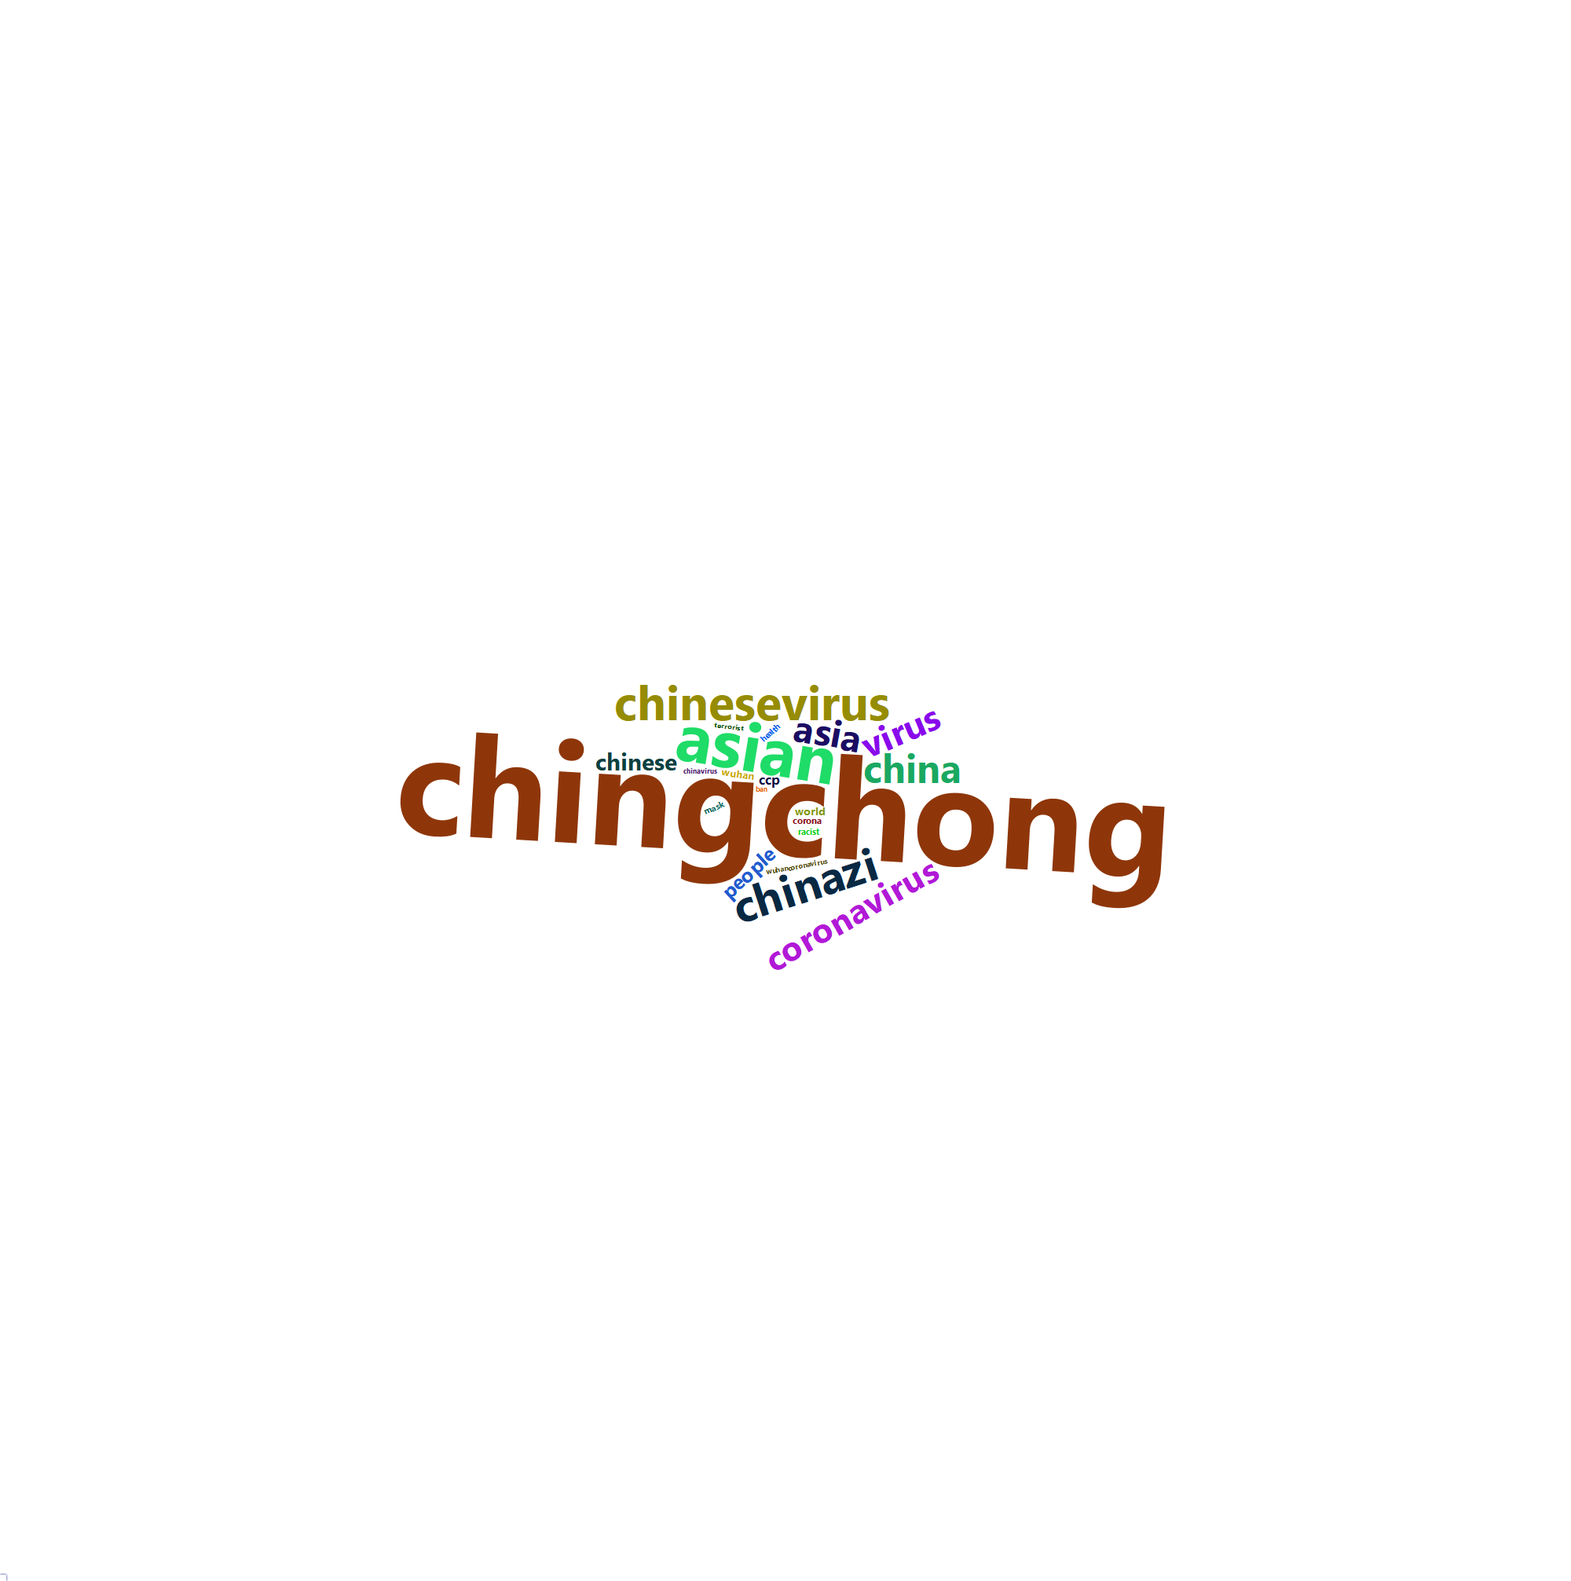
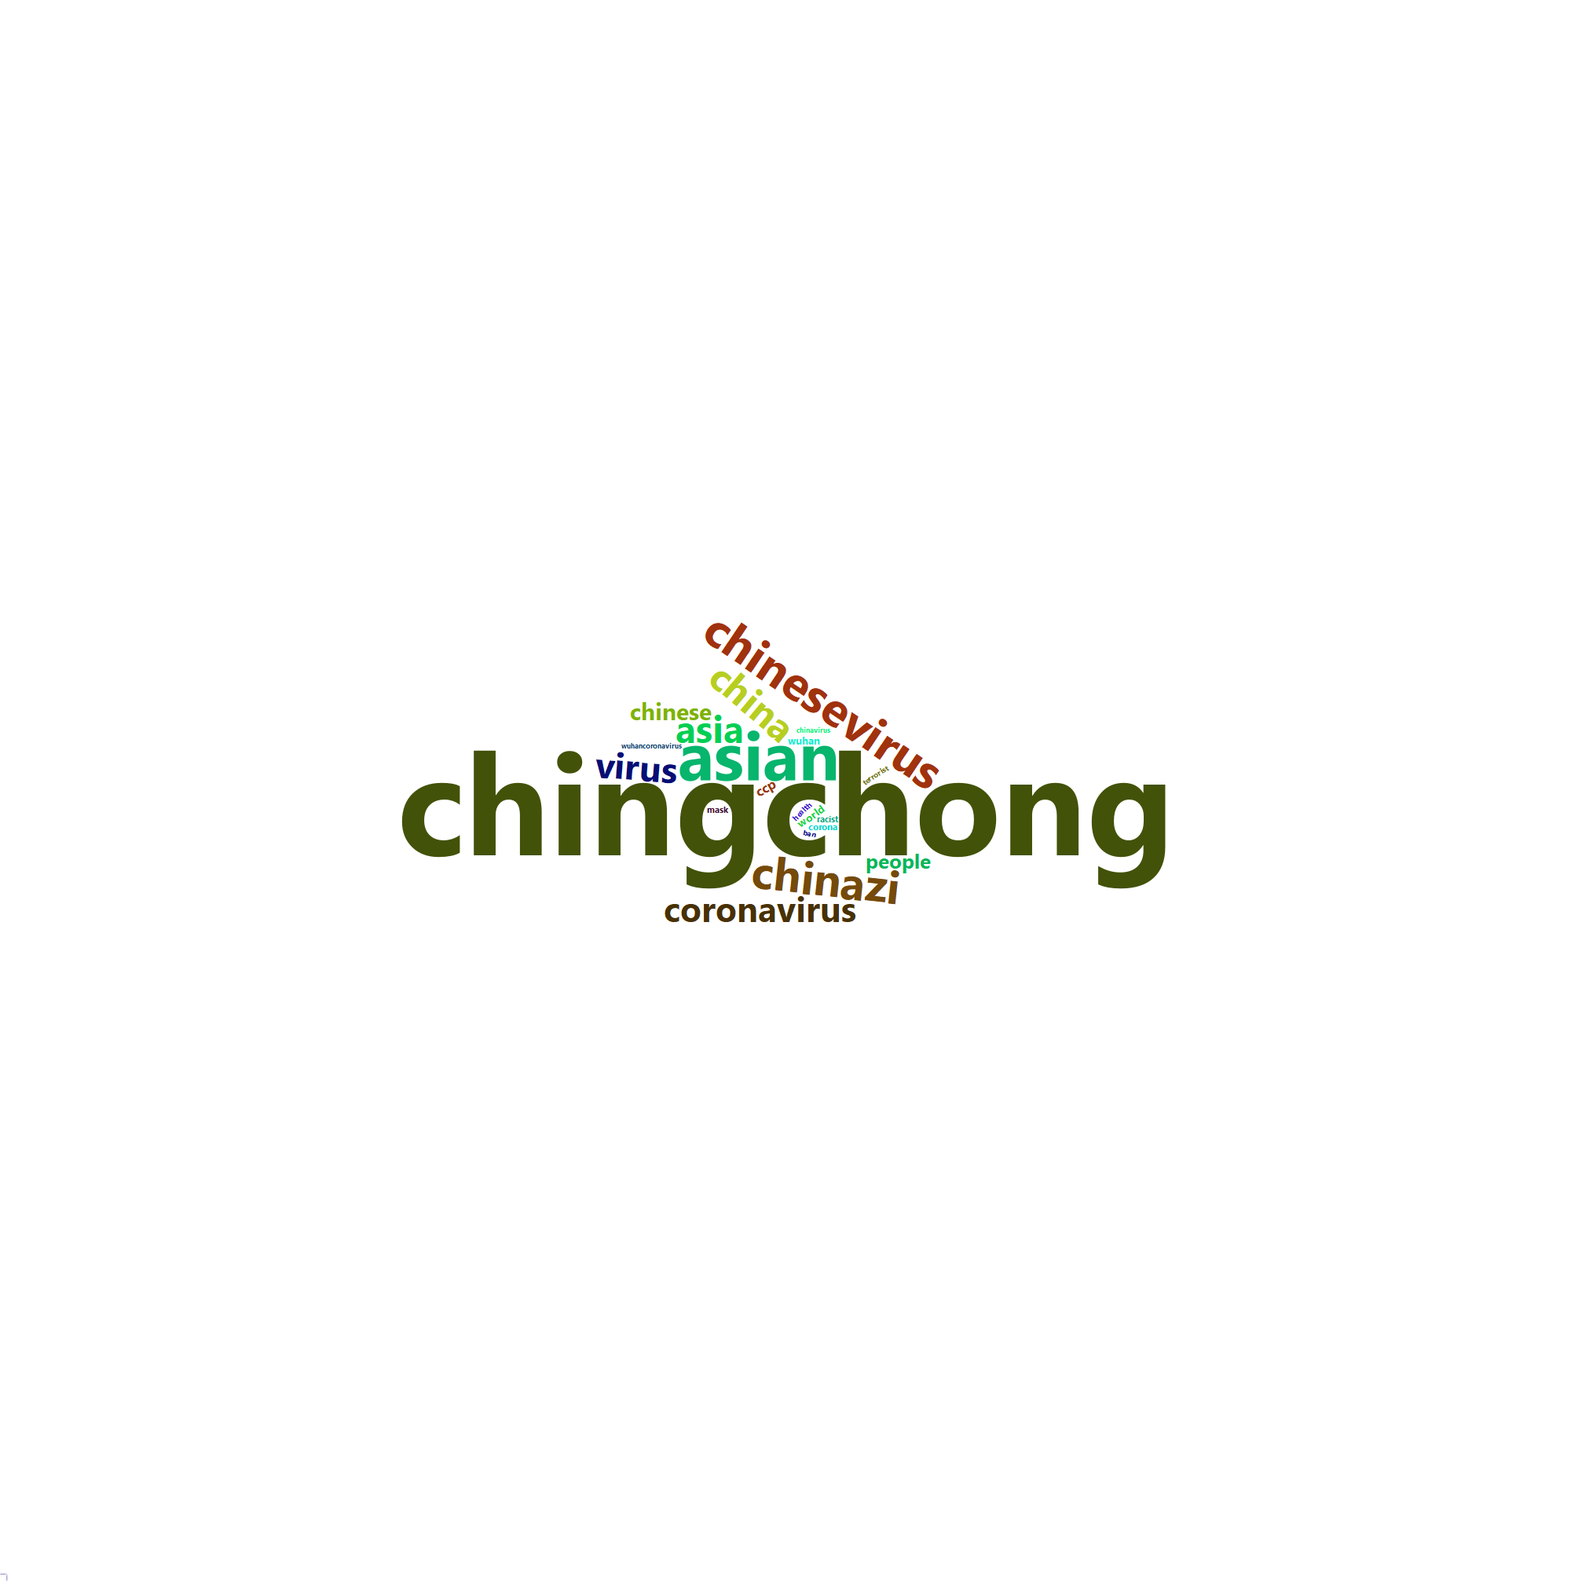
by code running new wordclouds emerge
adding chunk options (warning=FALSE)

Changed region(s): [[0.248, 0.4004, 0.744, 0.616]]

diff --git a/wcloud.html b/wcloud.html
@@ -12,9 +12,9 @@
 </head>
 <body>
 <div id="htmlwidget_container">
-  <div id="htmlwidget-d4dbf31417bd7e668d08" style="width:960px;height:500px;" class="wordcloud2 html-widget"></div>
+  <div id="htmlwidget-67f505dbee9f1725c42c" style="width:960px;height:500px;" class="wordcloud2 html-widget"></div>
 </div>
-<script type="application/json" data-for="htmlwidget-d4dbf31417bd7e668d08">{"x":{"word":["chinazi","chinesevirus","china","chinaliedpeopledied","asian","asia","covid","ccp","world","chingchong","people","coronavirus","chinese","wuhanvirus","virus","chinavirus","terrorist","standwithhongkong","ccpvirus","hongkong","hong","kong","hk","trump","stop","time","wuhan","country","boycottchina","wuhancoronavirus","countries","chinamustpay","pandemic","hongkongprotests","human","government","taiwan","police","racist","realdontaldtrump","white","freedom","freehongkong","antichinazi","communist","black","evil","chinacoronavirus","ccpchina","american","news","usa","chinesecoronavirus","spread","corona","india","america","day","standwithhk","pay","support","truth","americans","rights","love","call","fight","uk","chinaliedandpeopledied","east","real","free","money","president","media","hkpolicestate","wholiedpeopledied","south","hkpolicebrutality","hkpoliceterrorism","stand","life","hkpoliceterrorists","propaganda","trust","democracy","soshk","chinamustexplain","hope","live","party","racism","fightforfreedom","ppl","didn","europe","global","maga","shit","blame","spreading","makechinapay","deaths","fuck","los","stay","death","donte","hongkongers","called","uyghurs","chinesewuhanvirus","coronavirusoutbreak","home","por","regime","fake","war","control","food","won","hate","lives","true","japan","chinesebioterrorism","para","health","citizens","god","international","chineseviruscorona","demandsnot","person","chinaisasshoe","hongkongprotest","australia","forget","con","masks","hkpolice","terroristpic","care","christmas","power","chinaliedpeopledie","policebrutality","lies","start","due","xijinping","video","bad","responsible","wrong","youtube","shame","outbreak","italy","million","act","coming","freehk","africa","calling","travel","kill","est","law","economy","wuhancoronavius","flu","buy","history","anti","coronaviruspandemic","hkers","women","lockdown","gfvip","uyghur","watch","girl","lied","wuhancoronavirusoutbreak","agree","died","boycottmulan","lot","threat","huawei","understand","mask","nazi","business","die","hongkongpolice","save","sia","killed","times","fighting","muslims","protect","chinalies","potus","happy","beijing","family","remember","share","xinjiang","feel","lost","medical","reason","crisis","left","days","govt","infected","market","bill","canada","chinaliespeopledie","del","dontt","hantavirus","im","attack","democrats","hell","started","city","eu","gov","policestate","political","west","ban","fucking","makes","race","african","western","stupid","dead","woman","wuhanpneumonia","sars","cover","killing","lying","guy","rest","talking","korea","drtedros","freetibet","friends","cnn","game","gonna","information","kag","play","solomonyue","pro","community","fakenews","hard","stayhome","accountable","ccpliedpeopledied","southeast","economic","means","eat","kills","sad","ass","caused","job","change","originated","trade","asians","guys","humanity","pacific","told","una","follow","lab","yang","culture","justice","read","safe","top","word","entire","generation","hongkongprotesters","les","europa","created","millions","markets","speech","taking","germany","late","viruschino","action","lie","wake","coronavirusupdate","nation","public","tyranny","months","sanction","ago","found","products","bring","comment","data","kids","matter","students","arrested","disgusting","girls","hands","situation","social","absolutely","coronaviruslockdown","crazy","deal","eating","happen","japanese","middle","speakerpelosi","yeah","che","future","hahahaha","happened","sick","check","hold","hongkongpoliceterrorism","tour","tweet","polyu","united","censorship","happening","anywherebutchina","genocide","hkprotests","liberatehongkong","xijinpingvirus","damn","living","chinamustfall","disease","eyes","wait","friend","learn","son","telling","como","dan","house","issue","mi","pls","worse","communism","hit","line","literally","price","talaga","talk","thousands","boycottbeijing","dear","giving","held","hongkongpolicebrutality","indian","poor","puppet","shut","tibet","worldwide","foreign","humanrights","joke","national","sense","thailand"],"freq":[10724,8422,8276,7038,5058,3535,3516,3249,2828,2770,2701,2520,2181,2022,1860,1622,1301,1294,989,977,898,894,884,883,825,825,812,806,800,758,637,615,608,596,572,568,566,538,531,531,531,517,507,504,498,496,481,464,463,460,459,447,435,435,418,410,404,404,401,382,376,375,373,373,372,369,369,354,351,347,346,338,336,333,330,325,325,321,317,311,308,303,302,295,290,286,286,284,284,284,284,282,281,280,273,273,273,273,269,260,260,259,258,258,258,258,256,255,254,253,253,250,250,250,250,250,248,248,244,241,239,238,238,238,237,234,232,229,228,227,226,225,223,222,221,221,220,220,219,217,214,214,212,212,212,211,209,208,208,206,206,205,204,203,203,203,202,201,200,200,199,199,199,198,198,198,196,195,195,194,194,193,192,192,191,190,189,188,187,186,186,185,184,184,182,180,180,179,179,179,178,178,177,175,174,174,174,174,174,173,173,171,171,171,170,170,168,167,167,167,167,167,166,164,164,164,161,161,160,160,159,159,158,158,158,158,157,157,156,155,155,155,155,153,153,152,152,152,151,150,150,150,150,149,148,147,146,146,146,145,144,144,144,143,143,142,141,140,140,140,139,139,139,139,139,139,139,138,137,137,137,137,136,136,136,135,135,134,134,134,133,133,133,132,132,132,131,131,131,131,131,131,130,130,129,128,128,128,128,128,128,127,127,127,127,126,125,125,124,124,124,122,122,122,121,121,121,120,120,120,120,119,119,118,118,118,117,117,117,117,117,117,116,116,116,116,116,116,115,115,115,115,115,115,115,115,115,115,114,114,114,114,114,113,113,113,113,113,112,112,111,111,110,110,110,110,110,108,108,107,107,107,107,106,106,106,106,105,105,105,105,105,105,105,104,104,104,104,104,104,104,104,103,103,103,103,103,103,103,103,103,103,103,102,102,101,101,101,101],"fontFamily":"Segoe UI","fontWeight":"bold","color":"random-dark","minSize":0,"weightFactor":0.0503543453935099,"backgroundColor":"white","gridSize":0,"minRotation":-0.785398163397448,"maxRotation":0.785398163397448,"shuffle":true,"rotateRatio":0.4,"shape":"circle","ellipticity":0.65,"figBase64":null,"hover":null},"evals":[],"jsHooks":{"render":[{"code":"function(el,x){\n                        console.log(123);\n                        if(!iii){\n                          window.location.reload();\n                          iii = False;\n\n                        }\n  }","data":null}]}}</script>
-<script type="application/htmlwidget-sizing" data-for="htmlwidget-d4dbf31417bd7e668d08">{"viewer":{"width":450,"height":350,"padding":0,"fill":true},"browser":{"width":960,"height":500,"padding":0,"fill":true}}</script>
+<script type="application/json" data-for="htmlwidget-67f505dbee9f1725c42c">{"x":{"word":["chinazi","chinesevirus","china","chinaliedpeopledied","asian","asia","covid","ccp","world","chingchong","people","coronavirus","chinese","wuhanvirus","virus","chinavirus","terrorist","standwithhongkong","ccpvirus","hongkong","hong","kong","hk","trump","stop","time","wuhan","country","boycottchina","wuhancoronavirus","countries","chinamustpay","pandemic","hongkongprotests","human","government","taiwan","police","racist","realdontaldtrump","white","freedom","freehongkong","antichinazi","communist","black","evil","chinacoronavirus","ccpchina","american","news","usa","chinesecoronavirus","spread","corona","india","america","day","standwithhk","pay","support","truth","americans","rights","love","call","fight","uk","chinaliedandpeopledied","east","real","free","money","president","media","hkpolicestate","wholiedpeopledied","south","hkpolicebrutality","hkpoliceterrorism","stand","life","hkpoliceterrorists","propaganda","trust","democracy","soshk","chinamustexplain","hope","live","party","racism","fightforfreedom","ppl","didn","europe","global","maga","shit","blame","spreading","makechinapay","deaths","fuck","los","stay","death","donte","hongkongers","called","uyghurs","chinesewuhanvirus","coronavirusoutbreak","home","por","regime","fake","war","control","food","won","hate","lives","true","japan","chinesebioterrorism","para","health","citizens","god","international","chineseviruscorona","demandsnot","person","chinaisasshoe","hongkongprotest","australia","forget","con","masks","hkpolice","terroristpic","care","christmas","power","chinaliedpeopledie","policebrutality","lies","start","due","xijinping","video","bad","responsible","wrong","youtube","shame","outbreak","italy","million","act","coming","freehk","africa","calling","travel","kill","est","law","economy","wuhancoronavius","flu","buy","history","anti","coronaviruspandemic","hkers","women","lockdown","gfvip","uyghur","watch","girl","lied","wuhancoronavirusoutbreak","agree","died","boycottmulan","lot","threat","huawei","understand","mask","nazi","business","die","hongkongpolice","save","sia","killed","times","fighting","muslims","protect","chinalies","potus","happy","beijing","family","remember","share","xinjiang","feel","lost","medical","reason","crisis","left","days","govt","infected","market","bill","canada","chinaliespeopledie","del","dontt","hantavirus","im","attack","democrats","hell","started","city","eu","gov","policestate","political","west","ban","fucking","makes","race","african","western","stupid","dead","woman","wuhanpneumonia","sars","cover","killing","lying","guy","rest","talking","korea","drtedros","freetibet","friends","cnn","game","gonna","information","kag","play","solomonyue","pro","community","fakenews","hard","stayhome","accountable","ccpliedpeopledied","southeast","economic","means","eat","kills","sad","ass","caused","job","change","originated","trade","asians","guys","humanity","pacific","told","una","follow","lab","yang","culture","justice","read","safe","top","word","entire","generation","hongkongprotesters","les","europa","created","millions","markets","speech","taking","germany","late","viruschino","action","lie","wake","coronavirusupdate","nation","public","tyranny","months","sanction","ago","found","products","bring","comment","data","kids","matter","students","arrested","disgusting","girls","hands","situation","social","absolutely","coronaviruslockdown","crazy","deal","eating","happen","japanese","middle","speakerpelosi","yeah","che","future","hahahaha","happened","sick","check","hold","hongkongpoliceterrorism","tour","tweet","polyu","united","censorship","happening","anywherebutchina","genocide","hkprotests","liberatehongkong","xijinpingvirus","damn","living","chinamustfall","disease","eyes","wait","friend","learn","son","telling","como","dan","house","issue","mi","pls","worse","communism","hit","line","literally","price","talaga","talk","thousands","boycottbeijing","dear","giving","held","hongkongpolicebrutality","indian","poor","puppet","shut","tibet","worldwide","foreign","humanrights","joke","national","sense","thailand"],"freq":[10724,8422,8276,7038,5058,3535,3516,3249,2828,2770,2701,2520,2181,2022,1860,1622,1301,1294,989,977,898,894,884,883,825,825,812,806,800,758,637,615,608,596,572,568,566,538,531,531,531,517,507,504,498,496,481,464,463,460,459,447,435,435,418,410,404,404,401,382,376,375,373,373,372,369,369,354,351,347,346,338,336,333,330,325,325,321,317,311,308,303,302,295,290,286,286,284,284,284,284,282,281,280,273,273,273,273,269,260,260,259,258,258,258,258,256,255,254,253,253,250,250,250,250,250,248,248,244,241,239,238,238,238,237,234,232,229,228,227,226,225,223,222,221,221,220,220,219,217,214,214,212,212,212,211,209,208,208,206,206,205,204,203,203,203,202,201,200,200,199,199,199,198,198,198,196,195,195,194,194,193,192,192,191,190,189,188,187,186,186,185,184,184,182,180,180,179,179,179,178,178,177,175,174,174,174,174,174,173,173,171,171,171,170,170,168,167,167,167,167,167,166,164,164,164,161,161,160,160,159,159,158,158,158,158,157,157,156,155,155,155,155,153,153,152,152,152,151,150,150,150,150,149,148,147,146,146,146,145,144,144,144,143,143,142,141,140,140,140,139,139,139,139,139,139,139,138,137,137,137,137,136,136,136,135,135,134,134,134,133,133,133,132,132,132,131,131,131,131,131,131,130,130,129,128,128,128,128,128,128,127,127,127,127,126,125,125,124,124,124,122,122,122,121,121,121,120,120,120,120,119,119,118,118,118,117,117,117,117,117,117,116,116,116,116,116,116,115,115,115,115,115,115,115,115,115,115,114,114,114,114,114,113,113,113,113,113,112,112,111,111,110,110,110,110,110,108,108,107,107,107,107,106,106,106,106,105,105,105,105,105,105,105,104,104,104,104,104,104,104,104,103,103,103,103,103,103,103,103,103,103,103,102,102,101,101,101,101],"fontFamily":"Segoe UI","fontWeight":"bold","color":"random-dark","minSize":0,"weightFactor":0.0503543453935099,"backgroundColor":"white","gridSize":0,"minRotation":-0.785398163397448,"maxRotation":0.785398163397448,"shuffle":true,"rotateRatio":0.4,"shape":"circle","ellipticity":0.65,"figBase64":null,"hover":null},"evals":[],"jsHooks":{"render":[{"code":"function(el,x){\n                        console.log(123);\n                        if(!iii){\n                          window.location.reload();\n                          iii = False;\n\n                        }\n  }","data":null}]}}</script>
+<script type="application/htmlwidget-sizing" data-for="htmlwidget-67f505dbee9f1725c42c">{"viewer":{"width":450,"height":350,"padding":0,"fill":true},"browser":{"width":960,"height":500,"padding":0,"fill":true}}</script>
 </body>
 </html>

diff --git a/wcloud_week2.html b/wcloud_week2.html
@@ -12,9 +12,9 @@
 </head>
 <body>
 <div id="htmlwidget_container">
-  <div id="htmlwidget-d0f2ee4bd9155b3b8cfc" style="width:960px;height:500px;" class="wordcloud2 html-widget"></div>
+  <div id="htmlwidget-6dd42b0bb87b2ad2e0d7" style="width:960px;height:500px;" class="wordcloud2 html-widget"></div>
 </div>
-<script type="application/json" data-for="htmlwidget-d0f2ee4bd9155b3b8cfc">{"x":{"word":["chinaliedpeopledied","china","chinesevirus","chinazi","covid","ccp","world","chinavirus","coronavirus","chinese","people","virus","ccpvirus","wuhanvirus","asian","chinamustpay","chingchong","trump","terrorist","boycottchina"],"freq":[1590,1005,974,590,495,433,309,278,272,212,202,189,187,169,165,156,151,141,126,116],"fontFamily":"Segoe UI","fontWeight":"bold","color":"random-dark","minSize":0,"weightFactor":0.226415094339623,"backgroundColor":"white","gridSize":0,"minRotation":-0.785398163397448,"maxRotation":0.785398163397448,"shuffle":true,"rotateRatio":0.4,"shape":"circle","ellipticity":0.65,"figBase64":null,"hover":null},"evals":[],"jsHooks":{"render":[{"code":"function(el,x){\n                        console.log(123);\n                        if(!iii){\n                          window.location.reload();\n                          iii = False;\n\n                        }\n  }","data":null}]}}</script>
-<script type="application/htmlwidget-sizing" data-for="htmlwidget-d0f2ee4bd9155b3b8cfc">{"viewer":{"width":450,"height":350,"padding":0,"fill":true},"browser":{"width":960,"height":500,"padding":0,"fill":true}}</script>
+<script type="application/json" data-for="htmlwidget-6dd42b0bb87b2ad2e0d7">{"x":{"word":["chinaliedpeopledied","china","chinesevirus","chinazi","covid","ccp","world","chinavirus","coronavirus","chinese","people","virus","ccpvirus","wuhanvirus","asian","chinamustpay","chingchong","trump","terrorist","boycottchina"],"freq":[1590,1005,974,590,495,433,309,278,272,212,202,189,187,169,165,156,151,141,126,116],"fontFamily":"Segoe UI","fontWeight":"bold","color":"random-dark","minSize":0,"weightFactor":0.113207547169811,"backgroundColor":"white","gridSize":0,"minRotation":-0.785398163397448,"maxRotation":0.785398163397448,"shuffle":true,"rotateRatio":0.4,"shape":"circle","ellipticity":0.65,"figBase64":null,"hover":null},"evals":[],"jsHooks":{"render":[{"code":"function(el,x){\n                        console.log(123);\n                        if(!iii){\n                          window.location.reload();\n                          iii = False;\n\n                        }\n  }","data":null}]}}</script>
+<script type="application/htmlwidget-sizing" data-for="htmlwidget-6dd42b0bb87b2ad2e0d7">{"viewer":{"width":450,"height":350,"padding":0,"fill":true},"browser":{"width":960,"height":500,"padding":0,"fill":true}}</script>
 </body>
 </html>

diff --git a/wcloud_week1.html b/wcloud_week1.html
@@ -12,9 +12,9 @@
 </head>
 <body>
 <div id="htmlwidget_container">
-  <div id="htmlwidget-c3a32817fae347361b1f" style="width:960px;height:500px;" class="wordcloud2 html-widget"></div>
+  <div id="htmlwidget-de456cc30ff9a7cd1d37" style="width:960px;height:500px;" class="wordcloud2 html-widget"></div>
 </div>
-<script type="application/json" data-for="htmlwidget-c3a32817fae347361b1f">{"x":{"word":["chingchong","asian","chinesevirus","chinazi","china","asia","virus","coronavirus","chinese","people","ccp","world","wuhan","corona","racist","mask","health","chinavirus","wuhancoronavirus","ban","terrorist"],"freq":[619,295,211,199,173,166,159,153,103,91,59,48,46,40,38,37,36,32,31,30,30],"fontFamily":"Segoe UI","fontWeight":"bold","color":"random-dark","minSize":0,"weightFactor":0.290791599353796,"backgroundColor":"white","gridSize":0,"minRotation":-0.785398163397448,"maxRotation":0.785398163397448,"shuffle":true,"rotateRatio":0.4,"shape":"circle","ellipticity":0.65,"figBase64":null,"hover":null},"evals":[],"jsHooks":{"render":[{"code":"function(el,x){\n                        console.log(123);\n                        if(!iii){\n                          window.location.reload();\n                          iii = False;\n\n                        }\n  }","data":null}]}}</script>
-<script type="application/htmlwidget-sizing" data-for="htmlwidget-c3a32817fae347361b1f">{"viewer":{"width":450,"height":350,"padding":0,"fill":true},"browser":{"width":960,"height":500,"padding":0,"fill":true}}</script>
+<script type="application/json" data-for="htmlwidget-de456cc30ff9a7cd1d37">{"x":{"word":["chingchong","asian","chinesevirus","chinazi","china","asia","virus","coronavirus","chinese","people","ccp","world","wuhan","corona","racist","mask","health","chinavirus","wuhancoronavirus","ban","terrorist"],"freq":[619,295,211,199,173,166,159,153,103,91,59,48,46,40,38,37,36,32,31,30,30],"fontFamily":"Segoe UI","fontWeight":"bold","color":"random-dark","minSize":0,"weightFactor":0.290791599353796,"backgroundColor":"white","gridSize":0,"minRotation":-0.785398163397448,"maxRotation":0.785398163397448,"shuffle":true,"rotateRatio":0.4,"shape":"circle","ellipticity":0.65,"figBase64":null,"hover":null},"evals":[],"jsHooks":{"render":[{"code":"function(el,x){\n                        console.log(123);\n                        if(!iii){\n                          window.location.reload();\n                          iii = False;\n\n                        }\n  }","data":null}]}}</script>
+<script type="application/htmlwidget-sizing" data-for="htmlwidget-de456cc30ff9a7cd1d37">{"viewer":{"width":450,"height":350,"padding":0,"fill":true},"browser":{"width":960,"height":500,"padding":0,"fill":true}}</script>
 </body>
 </html>
